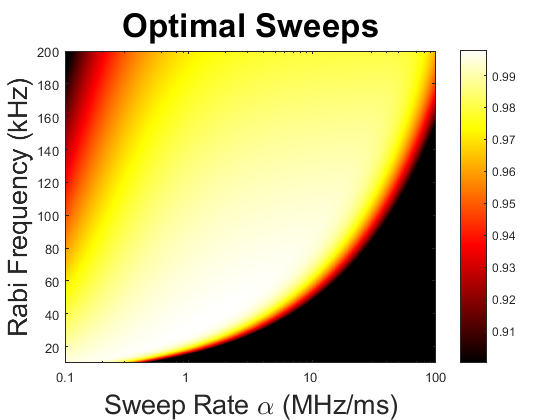
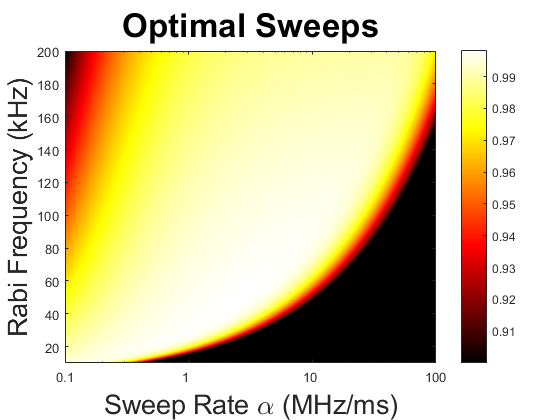
Updated graphs

diff --git a/MATLAB/RabiGraph.m b/MATLAB/RabiGraph.m
@@ -20,7 +20,7 @@ OtherDetuning = Otherlevel-Detuning;
 % Sweep4 = 1:1e-4:1e2;
 % Sweep5 = 1e2:1e-3:1e3;
 % Sweep = 1e-1:1e-2:1e2;
-Sweep = logspace(-1, 2, 1000);
+Sweep = logspace(-1, 2, 10000);
 Sweep = Sweep.';
 
 
@@ -210,9 +210,9 @@ GateTimes = RabiGateTimeIdeal(:,4);
 %Num5 = NumPasses(5);
 %Num7 = NumPasses(7);
 %Num8 = NumPasses(8);
-Num3 = 4;
-Num5 = 8;
-Num7 = 12;
+Num3 = 3;
+Num5 = 5.5;
+Num7 = 8.5;
 
 Fluorescence3 = 2;
 Fluorescence5 = 4;
@@ -231,7 +231,7 @@ TotalfTime7 = FluorescenceTime*Fluorescence7;
 
 Fidelities3 = Fidelities.^Num3;
 Fidelities3(Fidelities3<.95) = -inf;
-plot(GateTimes.*Num3 + TotalfTime3, Fidelities3);
+semilogx(GateTimes.*Num3 + TotalfTime3, Fidelities3);
 hold on;
 Fidelities5 = Fidelities.^Num5;
 Fidelities5(Fidelities5<.95) = -inf;
@@ -254,10 +254,11 @@ Leg{2} = '5 level';
 Leg{3} = '7 level';
 %Leg{4} = '8 level';
 l3 = legend(Leg, 'Location', 'Southwest');
-ax5.Title.String = 'Different qudits';
+ax5.Title.String = 'Qudit measurement fidelity';
 ax5.Title.FontSize = 25;
 ax5.XLabel.String = 'Measurement Time (ms)';
 ax5.XLabel.FontSize = 20;
 ax5.YLabel.String = 'Fidelity';
 ax5.YLabel.FontSize = 20;
+ylim([.96 1]);
 %ax5.XTickLabel = [0.1 0.1 1 10];

diff --git a/MATLAB/Prob3.m b/MATLAB/Prob3.m
@@ -6,6 +6,7 @@ function [Prob] = Prob3(Tau, Rabi, sweep, Detuning, Fidelity, ODetuning)
 Theta = 1/2*atan(Rabi/Detuning);
 %Initial adiabatic state error based on detuning not being infinite
 StateDetuningError = sin(Theta).^2;
+%StateDetuningError = 0;
 %Lander Zanau Probability
 %ProbLZ = 1 - exp(-pi()^2*Rabi^2./sweep);
 ProbLZ = 1 - exp(-pi()^2*Rabi.^2./sweep*1e3);%Sweep in ms units
@@ -15,7 +16,8 @@ DephasingExp = exp(-2*pi()^2*Tau*Rabi./sweep*1e3);%Sweep in ms units
 ORabi = sqrt(Rabi.^2 + ODetuning^2);
 %Probability of exciting this other level: Using Steck equation 5.60,
 %Assume upper bound for sine function
-OProb = Rabi.^2./ORabi.^2;
+OProb = Rabi.^2./(2*ORabi.^2);
+%OProb = 0;
 Prob = Fidelity*(1/2 + DephasingExp.*(ProbLZ - 1/2)).*(1 - OProb).^2.*(1 - StateDetuningError).^2;
 %Phase error, State prep error
 %Prob = Fidelity*(1/2 + DephasingExp.*(ProbLZ - 1/2)).*(1 - StateDetuningError).^2;
